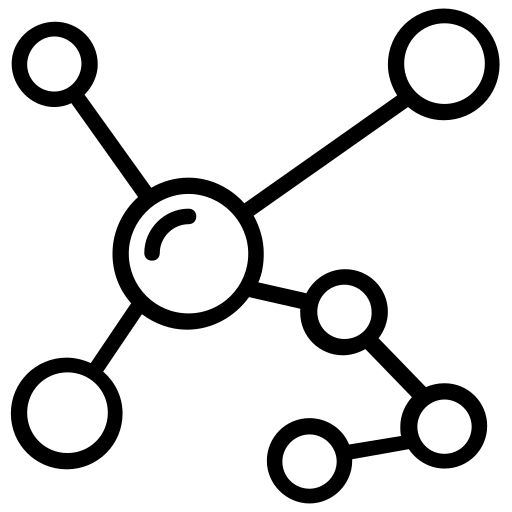
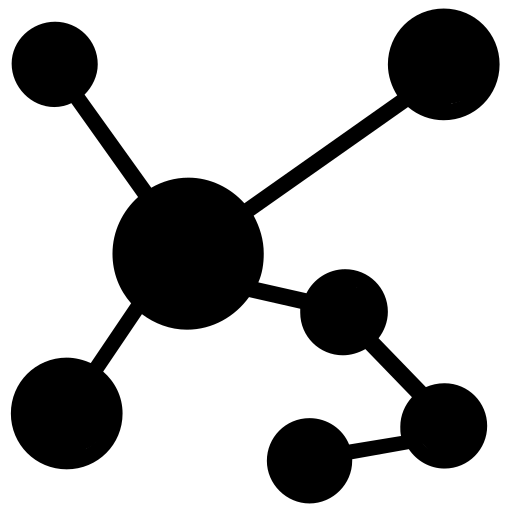
Excalidraw Page (#52)
* dark mode support

* diagram selection

* update logo

* lint/format

diff --git a/src/app/(protected)/org/[orgId]/project/[projectId]/canvas/page.tsx b/src/app/(protected)/org/[orgId]/project/[projectId]/canvas/page.tsx
@@ -1,6 +1,6 @@
 'use client';
 
-import { CircleAlert } from 'lucide-react';
+import { ChevronDown, CircleAlert } from 'lucide-react';
 import dynamic from 'next/dynamic';
 import { usePathname } from 'next/navigation';
 import React, { useCallback, useEffect, useState } from 'react';
@@ -16,10 +16,13 @@ const ExcalidrawWithClientOnly = dynamic(
     },
 );
 
+type DiagramType = 'flowchart' | 'sequence' | 'class';
+
 export default function Draw() {
     // const organizationId = '9badbbf0-441c-49f6-91e7-3d9afa1c13e6';
     const organizationId = usePathname().split('/')[2];
     const [prompt, setPrompt] = useState('');
+    const [diagramType, setDiagramType] = useState<DiagramType>('flowchart');
     const [excalidrawApi, setExcalidrawApi] = useState<{
         addMermaidDiagram: (mermaidSyntax: string) => Promise<void>;
     } | null>(null);
@@ -58,6 +61,10 @@ export default function Draw() {
                         input_name: 'Requirements(s)',
                         value: prompt.trim(),
                     },
+                    {
+                        input_name: 'Diagram-type',
+                        value: diagramType,
+                    },
                 ],
             });
             setPipelineRunId(run_id);
@@ -93,17 +100,36 @@ export default function Draw() {
                         break;
                     }
 
+                    // Clean the mermaid syntax
+                    const syntaxStr = Array.isArray(mermaidSyntax)
+                        ? mermaidSyntax[0]
+                        : mermaidSyntax;
+                    let cleanedSyntax = syntaxStr.replace(
+                        /```[\s\S]*?```/g,
+                        (match: string) => {
+                            const content = match
+                                .replace(/```[\w]*\n?/, '')
+                                .replace(/\n?```$/, '');
+                            return content;
+                        },
+                    );
+                    cleanedSyntax = cleanedSyntax
+                        .replace(/^```[\w]*\n?/, '')
+                        .replace(/\n?```$/, '');
+                    cleanedSyntax = cleanedSyntax.trim();
+
+                    // console.log('Cleaned mermaid syntax:', cleanedSyntax);
+
                     if (excalidrawApi) {
-                        const syntax = Array.isArray(mermaidSyntax)
-                            ? mermaidSyntax[0]
-                            : mermaidSyntax;
-                        excalidrawApi.addMermaidDiagram(syntax).catch((err) => {
-                            console.error(
-                                'Error rendering mermaid diagram:',
-                                err,
-                            );
-                            setError('Failed to render diagram');
-                        });
+                        excalidrawApi
+                            .addMermaidDiagram(cleanedSyntax)
+                            .catch((err) => {
+                                console.error(
+                                    'Error rendering mermaid diagram:',
+                                    err,
+                                );
+                                setError('Failed to render diagram');
+                            });
                     }
                 } catch (err) {
                     console.error('Error parsing pipeline output:', err);
@@ -135,22 +161,14 @@ export default function Draw() {
     );
 
     return (
-        <div style={{ display: 'flex', gap: '20px', padding: '20px' }}>
-            <div style={{ flexShrink: 0 }}>
+        <div className="flex gap-5 p-5">
+            <div className="flex-shrink-0">
                 <ExcalidrawWithClientOnly onMounted={handleExcalidrawMount} />
             </div>
-            <div
-                style={{
-                    display: 'flex',
-                    flexDirection: 'column',
-                    gap: '10px',
-                    padding: '20px',
-                    background: '#f5f5f5',
-                    borderRadius: '8px',
-                    height: 'fit-content',
-                }}
-            >
-                <h3 style={{ margin: '0 0 10px 0' }}>Text to Diagram</h3>
+            <div className="flex flex-col gap-2.5 p-5 bg-gray-100 dark:bg-sidebar rounded-lg h-fit">
+                <h3 className="text-xl text-BLACK dark:text-white">
+                    Text to Diagram
+                </h3>
                 <textarea
                     value={prompt}
                     onChange={(e) => {
@@ -158,48 +176,41 @@ export default function Draw() {
                         if (error) setError('');
                     }}
                     placeholder="Describe your diagram here..."
-                    style={{
-                        width: '300px',
-                        height: '150px',
-                        padding: '10px',
-                        borderRadius: '0px',
-                        border: '1px solid #ddd',
-                        resize: 'vertical',
-                    }}
+                    className="w-[300px] h-[150px] p-2.5 rounded-none border border-[#454545] resize-y"
                 />
+                <div className="mb-2.5">
+                    <label className="block mb-1 text-sm text-gray-700 dark:text-gray-300">
+                        Diagram Type
+                    </label>
+                    <div className="relative">
+                        <select
+                            value={diagramType}
+                            onChange={(e) =>
+                                setDiagramType(e.target.value as DiagramType)
+                            }
+                            className="w-full p-2.5 bg-white dark:bg-[#121212] border border-[#454545] appearance-none cursor-pointer"
+                        >
+                            <option value="flowchart">Flowchart</option>
+                            <option value="sequence">Sequence</option>
+                            <option value="class">Class</option>
+                        </select>
+                        <div className="absolute right-2.5 top-1/2 transform -translate-y-1/2 pointer-events-none">
+                            <ChevronDown size={16} />
+                        </div>
+                    </div>
+                </div>
                 <button
                     onClick={handleGenerate}
                     disabled={isGenerating}
-                    style={{
-                        padding: '10px 20px',
-                        backgroundColor: '#993CF6',
-                        color: 'white',
-                        border: 'none',
-                        borderRadius: '0px',
-                        cursor: isGenerating ? 'default' : 'pointer',
-                        opacity: isGenerating ? 0.7 : 1,
-                        fontWeight: 'bold',
-                    }}
+                    className={`px-5 py-2.5 bg-[#993CF6] text-white border-none rounded-none font-bold ${
+                        isGenerating
+                            ? 'opacity-70 cursor-default'
+                            : 'opacity-100 cursor-pointer'
+                    }`}
                 >
                     {isGenerating ? (
-                        <div
-                            style={{
-                                display: 'flex',
-                                alignItems: 'center',
-                                justifyContent: 'center',
-                                gap: '8px',
-                            }}
-                        >
-                            <div
-                                style={{
-                                    width: '16px',
-                                    height: '16px',
-                                    border: '2px solid #ffffff',
-                                    borderTopColor: 'transparent',
-                                    borderRadius: '50%',
-                                    animation: 'spin 1s linear infinite',
-                                }}
-                            />
+                        <div className="flex items-center justify-center gap-2">
+                            <div className="w-4 h-4 border-2 border-white border-t-transparent rounded-full animate-spin" />
                             Generating...
                         </div>
                     ) : (
@@ -207,45 +218,17 @@ export default function Draw() {
                     )}
                 </button>
                 {error && (
-                    <div
-                        style={{
-                            display: 'flex',
-                            alignItems: 'center',
-                            gap: '8px',
-                            color: '#dc2626',
-                            backgroundColor: '#fee2e2',
-                            padding: '8px',
-                            borderRadius: '4px',
-                            fontSize: '14px',
-                        }}
-                    >
-                        <CircleAlert
-                            style={{ width: '16px', height: '16px' }}
-                        />
+                    <div className="flex items-center gap-2 text-red-600 bg-red-100 p-2 rounded text-sm">
+                        <CircleAlert className="w-4 h-4" />
                         {error}
                     </div>
                 )}
                 {pipelineResponse?.state === 'DONE' && (
-                    <div
-                        style={{
-                            color: '#059669',
-                            backgroundColor: '#d1fae5',
-                            padding: '8px',
-                            borderRadius: '4px',
-                            fontSize: '14px',
-                        }}
-                    >
+                    <div className="text-emerald-600 bg-emerald-100 p-2 rounded text-sm">
                         Diagram generated successfully!
                     </div>
                 )}
             </div>
-            <style jsx>{`
-                @keyframes spin {
-                    to {
-                        transform: rotate(360deg);
-                    }
-                }
-            `}</style>
         </div>
     );
 }

diff --git a/src/components/custom/LandingPage/excalidrawWrapper.tsx b/src/components/custom/LandingPage/excalidrawWrapper.tsx
@@ -16,6 +16,7 @@ import '@excalidraw/excalidraw/index.css';
 
 import { convertToExcalidrawElements } from '@excalidraw/excalidraw';
 import { parseMermaidToExcalidraw } from '@excalidraw/mermaid-to-excalidraw';
+import { useTheme } from 'next-themes';
 import { usePathname } from 'next/navigation';
 import { v4 as uuidv4 } from 'uuid';
 
@@ -55,6 +56,15 @@ const ExcalidrawWrapper: React.FC<ExcalidrawWrapperProps> = ({ onMounted }) => {
         elements: readonly ExcalidrawElement[];
         appState: AppState;
     } | null>(null);
+
+    // Get theme from next-themes
+    const { theme, resolvedTheme } = useTheme();
+    const [isDarkMode, setIsDarkMode] = useState(false);
+
+    // Update dark mode state whenever theme changes
+    useEffect(() => {
+        setIsDarkMode(theme === 'dark' || resolvedTheme === 'dark');
+    }, [theme, resolvedTheme]);
 
     const { user } = useUser();
     const organizationId = usePathname().split('/')[2];
@@ -155,6 +165,7 @@ const ExcalidrawWrapper: React.FC<ExcalidrawWrapperProps> = ({ onMounted }) => {
                                 zoom: appState?.zoom || {
                                     value: 1 as NormalizedZoomValue,
                                 },
+                                theme: isDarkMode ? 'dark' : 'light',
                             },
                             files: files,
                         };
@@ -195,7 +206,18 @@ const ExcalidrawWrapper: React.FC<ExcalidrawWrapperProps> = ({ onMounted }) => {
         };
 
         initializeDiagram();
-    }, []);
+    }, [isDarkMode]);
+
+    // Update theme in Excalidraw when dark mode changes
+    useEffect(() => {
+        if (excalidrawApiRef.current) {
+            excalidrawApiRef.current.updateScene({
+                appState: {
+                    theme: isDarkMode ? 'dark' : 'light',
+                },
+            });
+        }
+    }, [isDarkMode]);
 
     const hasChanges = useCallback(
         (elements: readonly ExcalidrawElement[], appState: AppState) => {
@@ -361,7 +383,7 @@ const ExcalidrawWrapper: React.FC<ExcalidrawWrapperProps> = ({ onMounted }) => {
                         top: '10px',
                         right: '10px',
                         fontSize: '12px',
-                        color: '#666',
+                        color: isDarkMode ? '#aaa' : '#666',
                     }}
                 >
                     Last saved: {lastSaved.toLocaleTimeString()}
@@ -369,7 +391,14 @@ const ExcalidrawWrapper: React.FC<ExcalidrawWrapperProps> = ({ onMounted }) => {
             )}
             <Excalidraw
                 onChange={handleChange}
-                initialData={initialData}
+                initialData={{
+                    ...initialData,
+                    appState: {
+                        ...(initialData?.appState || {}),
+                        theme: isDarkMode ? 'dark' : 'light',
+                    },
+                }}
+                theme={isDarkMode ? 'dark' : 'light'}
                 excalidrawAPI={(api) => {
                     excalidrawApiRef.current = api;
                 }}
